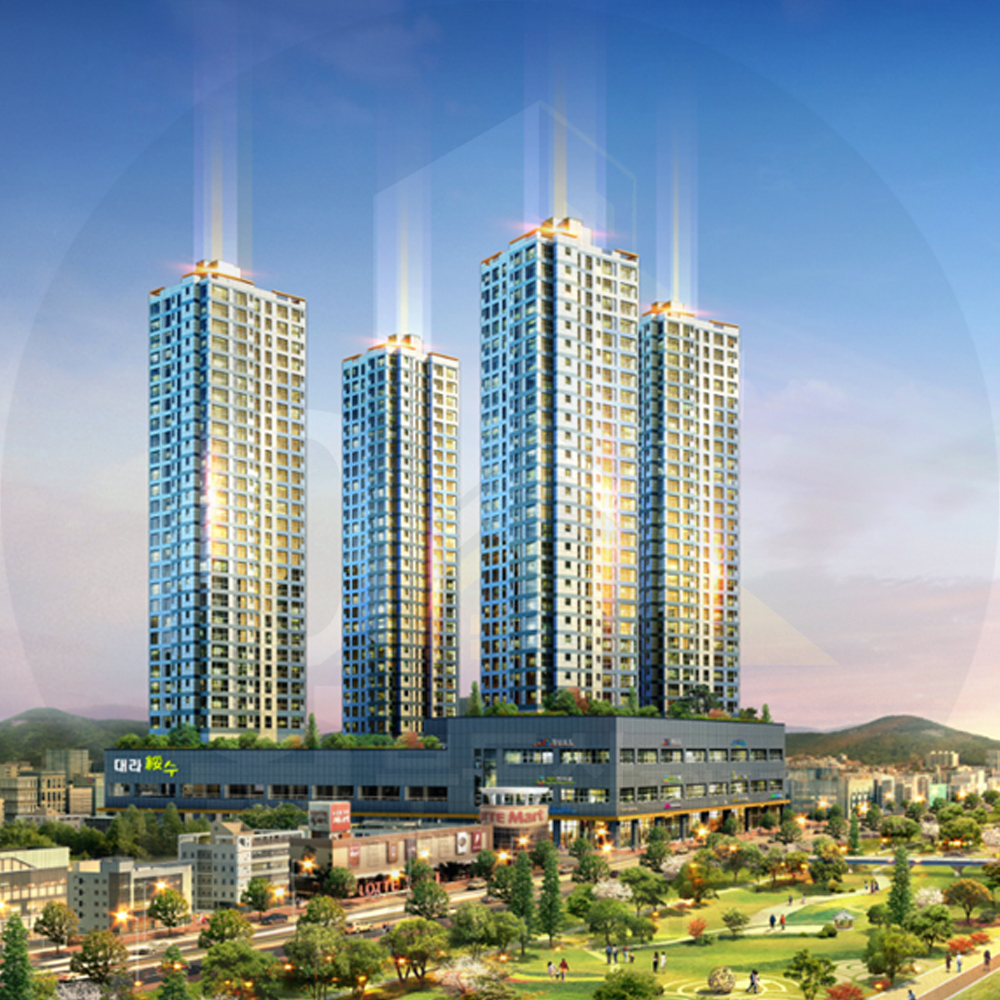
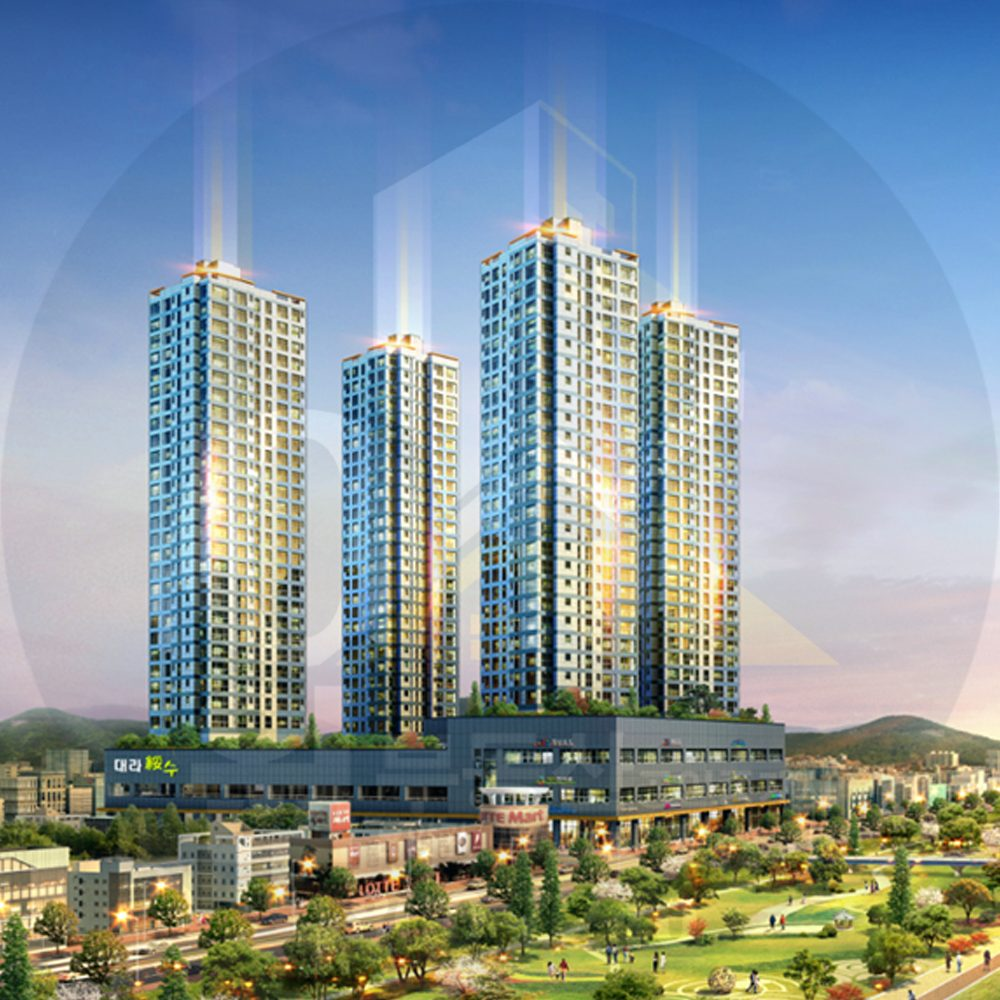
사무소 로고(소스/사무소로고.png) 경로 맞춤 · 첫 화면 사진에 로고 새김

Changed region(s): [[0.341, 0.62, 0.372, 0.651], [0.155, 0.744, 0.186, 0.775]]

diff --git a/tools/watermark.py b/tools/watermark.py
@@ -1,13 +1,15 @@
-# 단지 사진에 사무소 로고를 새겨 public/daelasoo/assets/hwip/ 에 저장한다 (설계서 9.4)
-# - 로고: 소스/브랜드/사무소로고.png, 사진 정중앙, 사진 안에 꽉 차게(높이·폭 중 맞는 쪽 기준), 진하기 3% (2026-10-27 8%→3%, 그림이 잘 보이게)
+# 단지 사진에 사무소 로고를 새겨 public/daelasoo/assets/dls/ 에 저장한다 (설계서 9.4)
+# - 원본: 소스/DAELASOO/소스/ (2026-11-13 대표가 옮김) · 로고: 소스/사무소로고.png (모든 단지 공통, 아이파크와 같은 파일)
+# - ⚠ 아래 FILES 목록은 아직 아이파크 것 — R1 에서 대라수 사진 목록으로 바꾼다
+# - 사진 정중앙, 사진 안에 꽉 차게(높이·폭 중 맞는 쪽 기준), 진하기 3% (2026-10-27 8%→3%, 그림이 잘 보이게)
 # - 사진은 폭 MAX_W · 높이 MAX_H 픽셀 이하로 (세로로 긴 안내 그림은 폭 유지) 줄이고 JPG(품질 82)로 저장. 원본(소스/)은 건드리지 않는다
 # 실행: 프로젝트 폴더에서  python tools/watermark.py   (처음 한 번: py -m pip install --user pillow)
 from pathlib import Path
 from PIL import Image
 
 ROOT = Path(__file__).resolve().parent.parent
-SRC, OUT = ROOT / '소스', ROOT / 'public' / 'daelasoo' / 'assets' / 'hwip'
-LOGO = SRC / '브랜드' / '사무소로고.png'
+SRC, OUT = ROOT / '소스' / 'DAELASOO' / '소스', ROOT / 'public' / 'daelasoo' / 'assets' / 'dls'
+LOGO = ROOT / '소스' / '사무소로고.png'
 OPACITY, MAX_W, MAX_H, QUALITY = 0.03, 1600, 6000, 82
 
 # (원본 경로, 저장 경로, 로고 새김 여부[, 'R' = 오른쪽으로 90도 돌림 · 'G' = 제미나이 별 지움 · 'H' = 큰 화면용 폭 2400 · 'U' = 작은 원본을 커뮤니티 사진 크기(1600x1195)로 키움 · 'X' = 작은 원본을 메인 사진 폭 2400으로 키움 · (x0, y0, x1, y1) = 그 부분만 잘라 씀]) — 로고·안내문 그림처럼 새기면 안 되는 것은 False

diff --git a/CLAUDE.md b/CLAUDE.md
@@ -14,7 +14,7 @@
 | 단계 | 상태 | 커밋 |
 |---|---|---|
 | R0 폴더 준비 | **완료 (2026-11-13)** — 아이파크 코드만 복사(사진 · 소스 · 설계서 · DB · 비밀값 · git 기록 안 가져옴) · 화면 전체를 `public/daelasoo/` 로 · 첫 화면 `public/index.html`(임시 카드 1개) · wrangler.jsonc 새 이름(database_id 는 0000… — 배포 전 금지) · Turnstile 시험 키 · 새 사무실 코드 `.dev.vars` · 경로 시험 `tests/base-path.test.js` · `npm test` 94개 통과. ⚠ 아직 `public/daelasoo/data/site.json` · 화면 문구 · 검색 페이지 내용 · 직원 화면 팝업 링크(`'/?reg=1'` 등, dashboard 4590줄 · 2171줄)는 아이파크 것 → R1. GitHub 저장소 연결은 대표가 저장소를 만든 뒤 | 3833cff |
-| R1 공개 화면 | 다음 — 첫 화면 `public/index.html` = 단지 카드 방식 (시안 home-first A안 확정 2026-11-13, 단지가 늘면 카드만 추가 · 카드 사진 `daelasoo/assets/dls/hero.jpg` 는 R1 때 로고 새기기 · 가볍게). 확정(2026-11-13 대표): 타입 이름 **80A · 80B** (소스의 84A · 84B 파일 이름은 80A · 80B 로 읽음) · 사무소 **제니스원부동산**(아이파크와 같은 사무소). site.json 대라수로(300세대 · 101~104동 · 4~28층 · 80A/80B · 59A/59B/59C · 광폭테라스 101·104동 4층) · `소스/DAELASOO/소스` 사진에 로고 새기기(tools/watermark.py 의 SRC 경로도 이 폴더로) · 단지소개 + 관심등록 중심 화면 · 시험 자료를 대라수 호실로 · 첫 화면 모양 | |
+| R1 공개 화면 | 다음 — 첫 화면 `public/index.html` = 단지 카드 방식 (시안 home-first A안 확정 2026-11-13, 단지가 늘면 카드만 추가 · 카드 사진 `daelasoo/assets/dls/hero.jpg` = 대라수1차.jpg 에 로고 새김 완료 2026-11-13 — R1 에서 watermark.py FILES 에도 넣기). 확정(2026-11-13 대표): 타입 이름 **80A · 80B** (소스의 84A · 84B 파일 이름은 80A · 80B 로 읽음) · 사무소 **제니스원부동산**(아이파크와 같은 사무소). site.json 대라수로(300세대 · 101~104동 · 4~28층 · 80A/80B · 59A/59B/59C · 광폭테라스 101·104동 4층) · `소스/DAELASOO/소스` 사진에 로고 새기기(tools/watermark.py 의 SRC 경로도 이 폴더로) · 단지소개 + 관심등록 중심 화면 · 시험 자료를 대라수 호실로 · 첫 화면 모양 | |
 | R2 직원 기본 | 세대DB 300호실 · 상담카드(분양전환 · 자금계획 · 계약 정보) · **공실 · 분양 가능 세대 공개 선택(관리자)** | |
 | R3 대라수 전용 기능 | 참고 사이트 기준: KPI 보드 · 일일업무보고 · 요청함 · 상담참고/지시 · 사용 불편사항 · MGM · 수수료 청구서(3.3% · 부가세 10%) · 전세연장 계산 · 미상담 세대 | |
 | R4 기존 자료 옮기기 | 기존 사이트 CSV · 구글시트 BACKUP → 엑셀 가져오기 (개인정보 — git 금지, `_자료/` 에 두기) | |
@@ -27,7 +27,7 @@
 ## 폴더
 - `public/index.html` rental-home 첫 화면 · `public/daelasoo/` 단지 화면 전체(index · staff · dashboard.dc.html · data · assets · maps)
 - `src/` 서버 · `tests/` 자동 시험 · `tools/` 자료 만드는 도구(경로는 public/daelasoo/ 기준)
-- `소스/` 단지별 원본 자료 (2026-11-13 대표가 정리) — `소스/DAELASOO/소스/` 대라수 사진 · 평면 · 배치도(열지 말고 파일명 · 크기만 다룸) · `소스/DAELASOO/참고만_CD_DaelaSoo1-main/` 기존 사이트(참고만, git 에 안 올림). 다른 단지가 생기면 `소스/<단지>/` 로
+- `소스/` 단지별 원본 자료 (2026-11-13 대표가 정리) — `소스/DAELASOO/소스/` 대라수 사진 · 평면 · 배치도(열지 말고 파일명 · 크기만 다룸) · `소스/DAELASOO/참고만_CD_DaelaSoo1-main/` 기존 사이트(참고만, git 에 안 올림). 다른 단지가 생기면 `소스/<단지>/` 로 · `소스/사무소로고.png` = **사진 워터마크 전용**(모든 단지 공통, 아이파크와 같은 파일 — 사진 정중앙 · 진하기 3% · 파일에 새김, `tools/watermark.py`, 실행은 `py tools/watermark.py`)
 - `_설계서/` 다른단지_만들기 · Supabase_전환_안내 · 스타일 가이드
 
 ## 사용자
